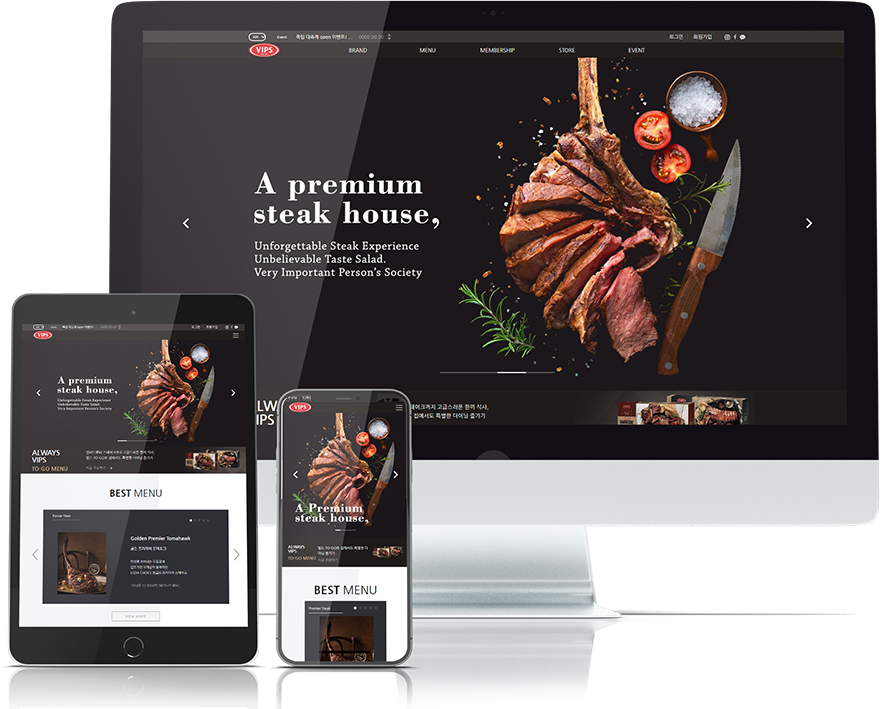
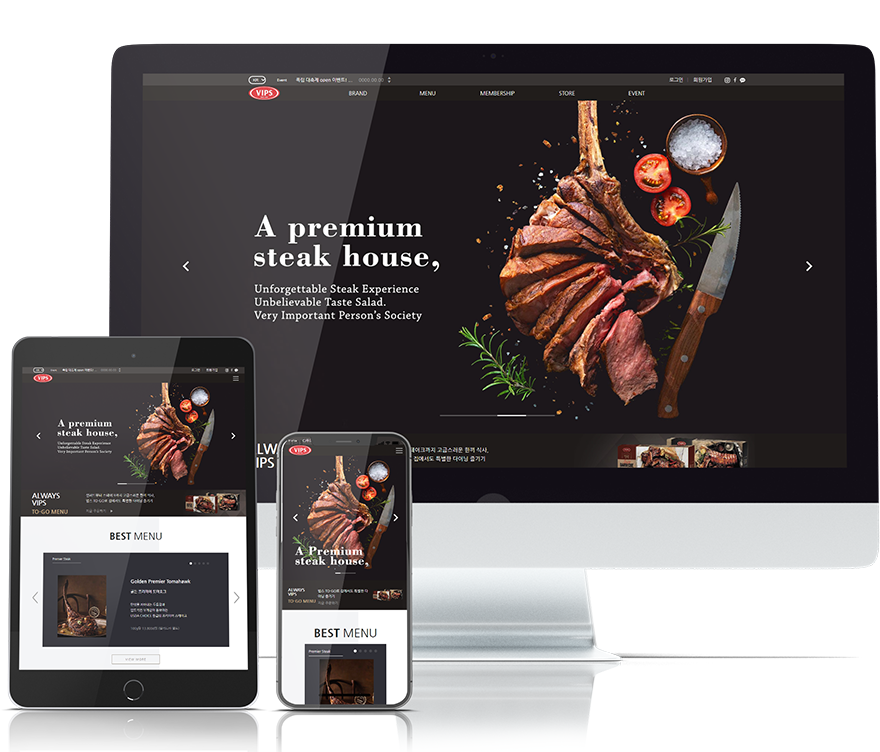
fit content도 안되는구나 언제 ie 망하지,,,

diff --git a/css/portfolio.css b/css/portfolio.css
@@ -1,18 +1,3 @@
-/* .content-wrap{
-    width: 100%;
-    overflow: hidden;
-    position: relative;
-    height: 5000px;
-}
-.slide{
-    width: 100%;
-    position: relative;
-}
-.swiper-container{
-    width: 70%;
-    position: absolute;
-    top: 0; left: 0;
-} */
 .content-wrap{
     width: 100%;
     overflow: hidden;
@@ -24,75 +9,24 @@
     position: relative;
     height: 100vh;
 }
-/* .swiper-container{
-    width: 60%;
-    position: absolute;
-    top:0; left: -5%;
-    opacity: 0;
-    transition: 0.5s ease;
-}
-.swiper-containe img{
-    width: 100%;
-    transform: scale(1.2);
-}
-.swiper-pagination{
-    position: absolute;
-    top: 0;
-    left: 0;
-    z-index: 999;
-    border: solid 10px red;
-    height: fit-content;
-} */
-/* swiprer pagination cutom */
 .swiper-container{
     width: 100%;
     height: 100vh;
 }
 .swiper-pagination{
-    bottom: 10% !important;
+    width: fit-content !important;
+    height: fit-content !important;
+    left: 80% !important;
+    top: 40% !important;
     z-index: 999;
+    transform: rotate(90deg);
 }
-.swiper-pagination .swiper-pagination-bullet{
-    position: relative;
-    width: auto;
-    height: auto;
-    border-radius: 0;
-    color: #fff;
-    opacity: 1;
-    background-color: transparent;
-    font-size: 20px;
-    font-weight: 500;
-    margin: 0 10px !important;
+.swiper-pagination-bullet{
+    background-color: rgba(255, 255, 255, 0.8);
 }
-.swiper-pagination .swiper-pagination-bullet::before{
-    content: "";
-    position: absolute;
-    bottom: -15px;
-    left: 0;
-    width: 100%;
-    height: 3px;
-    background-color: #fff;
-    opacity: 0.5;
-}
-.swiper-pagination .swiper-pagination-bullet::after{
-    content: "";
-    position: absolute;
-    bottom: -15px;
-    left: 0;
-    width: 0;
-    height: 3px;
+.swiper-pagination-bullet-active{
     background-color: #fff;
 }
-.swiper-pagination .swiper-pagination-bullet.swiper-pagination-bullet-active::after{
-    width: 100%;
-    animation: paginationLine 5s linear;
-}
-@keyframes paginationLine{
-    0%{
-        width: 0;
-    }
-}
-
 .swiper-slide {
     position: relative;
     border: transparent;
@@ -108,16 +42,45 @@
 }
 
 /* 텍스트 그룹 */
-.project-txt{
+.project-info{
     position: absolute;
     color: #fff;
     top: 50%;
-    left: 55%;
+    left: 50%;
     transform: translateY(-50%);
     width: 40%;
-    border: solid 10px red;
+    z-index: 500;
+}
+.project-tit{
+    font-size: 3vw;
+    height: 3vw;
+    overflow: hidden;
+}
+.project-txt{
+    margin-top: 4%;
+    font-size: 14px;
+    color: #aaa;
+    line-height: 1.7;
 }
 
+/* 애니메이션 제어 */
+.project-info span{
+    display: block;
+    opacity: 0;
+    transform: translateY(50px);
+    transition: 0.2s ease;
+}
+.project-info.on span{
+    opacity: 1;
+    transform: translateY(0);
+    transition: 0.8s ease;
+}
+.project-info.on .project-txt span{
+    transition-delay: 0.2s;
+}
+.project-info.on .project-txt span:nth-child(2){
+    transition-delay: 0.3s;
+}
 
 /* img 그룹 전체 */
 .img-group{
@@ -141,7 +104,7 @@
     }
 }
 .img-right{
-    width: fit-content;
+    width: 50%;
     height: fit-content;
     left: -10%;
     top: 50%;
@@ -264,17 +227,18 @@
     width: 10px;
     height: 10px;
     animation-delay: 2s;
+    transform: rotate(55deg);
 }
 .stars:nth-child(4){
     bottom: 10%;
     left: 50%;
+    transform: rotate(25deg);
 }
 .stars:nth-child(5){
     right: 10%;
     bottom: 30%;
     animation-delay: 1.5s;
 }
-
 .project{
     width: 100%;
     height: 500px;

diff --git a/index.html b/index.html
@@ -14,6 +14,7 @@
 	<link rel="stylesheet" type="text/css" href="./css/common.css">
 	<link rel="stylesheet" type="text/css" href="./lib/swiper/swiper.css">
 	<link rel="stylesheet" type="text/css" href="./css/portfolio.css">
+	<link rel="stylesheet" type="text/css" href="./css/media.css">
 
 	<script src="./js/jquery-3.5.1.min.js"></script>
 	<script src="./lib/swiper/swiper.js"></script>
@@ -66,9 +67,13 @@
 							<div data-val="-2" class="comet03 img-single02"></div>
 							<div data-val="7" class="comet04 img-single"></div>
 						</div>
-						<div class="project-txt">
-							<p class="project-tit">VIPS RENEWAL</p>
-							<p>dkssdkajsdklfjasdfjisofjisadjfiosdjfiojawoiefjioewajfiojefoijewfjweoifjwioefjiowejie</p>
+						<div class="project-info">
+							<p class="project-tit"><span>VIPS RENEWAL</span></p>
+							<p class="project-txt">
+								<span>
+								<b>"왜 리뉴얼은 메인 디자인만 많이 하는 걸까?"</b>라는 물음에서 출발한 저의 리뉴얼 홈페이지 입니다.</span>
+								<span>다양한 페이지를 디자인하고 제작하는것을 중점으로 하였습니다</span>
+							</p>
 							<a class="go-page" href="#">GO PAGE</a>
 						</div>
 						<ul class="stars-wrap">

diff --git a/js/portfolio.js b/js/portfolio.js
@@ -30,7 +30,6 @@ $(function(){
     $('.swiper-slide-active div').removeClass('on');
     $('.swiper-slide-active p').removeClass('on');
 
-    var menu = [' ', ' ', ' ']
     var swiper = new Swiper('.swiper-container', {
       initialSlide : 2,
       effect : 'fade',
@@ -39,9 +38,6 @@ $(function(){
       pagination: {
         el: '.swiper-pagination',
         clickable: true,
-        renderBullet : function(index, className){
-          return '<span class="' + className + '">' + (menu[index]) + '</span>';
-        }
       },
       reverseDirection: true,
       navigation: {

diff --git a/css/media.css b/css/media.css
@@ -1,0 +1,26 @@
+
+@media all and (max-width:1200px) { 
+	#wrap{
+        border: solid 10px red;
+	}
+ }
+ @media all and (max-width:1024px) { 
+	#wrap{
+        border: solid 10px yellow;
+	}
+ }
+@media all and (max-width:768px) { 
+	#wrap{
+        border: solid 10px blue;
+	}
+ }
+@media all and (max-width:480px) { 
+	#wrap{
+        border: solid 10px green;
+	}
+ }
+ @media all and (max-width:320px) { 
+	#wrap{
+        border: solid 10px palevioletred;
+	}
+ }
